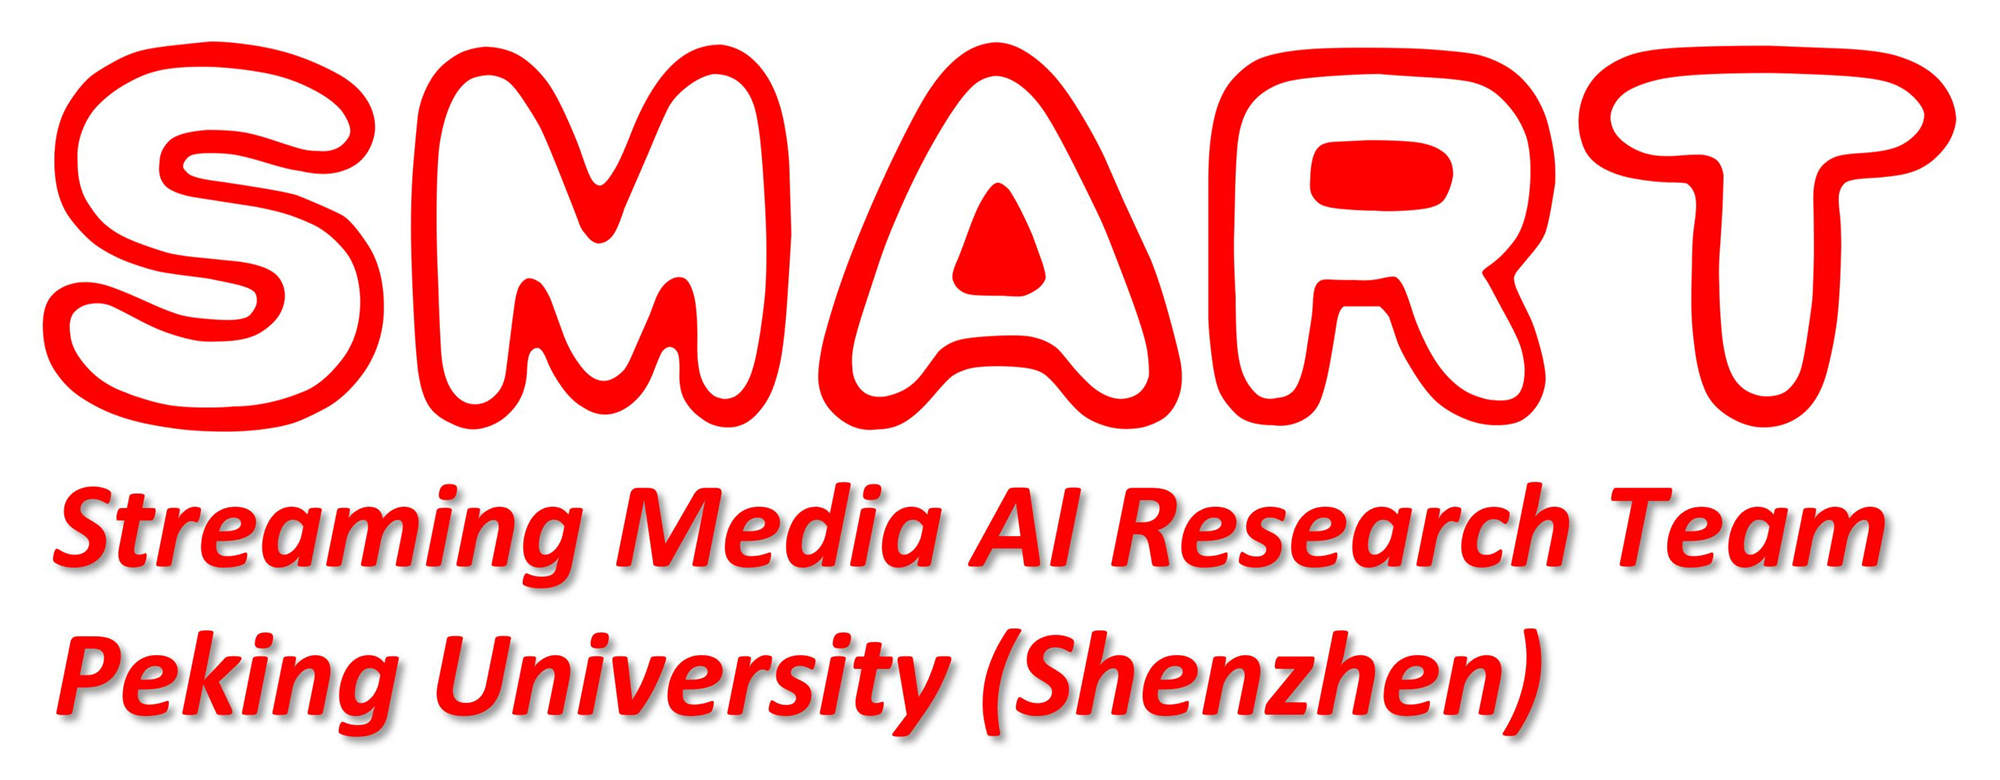
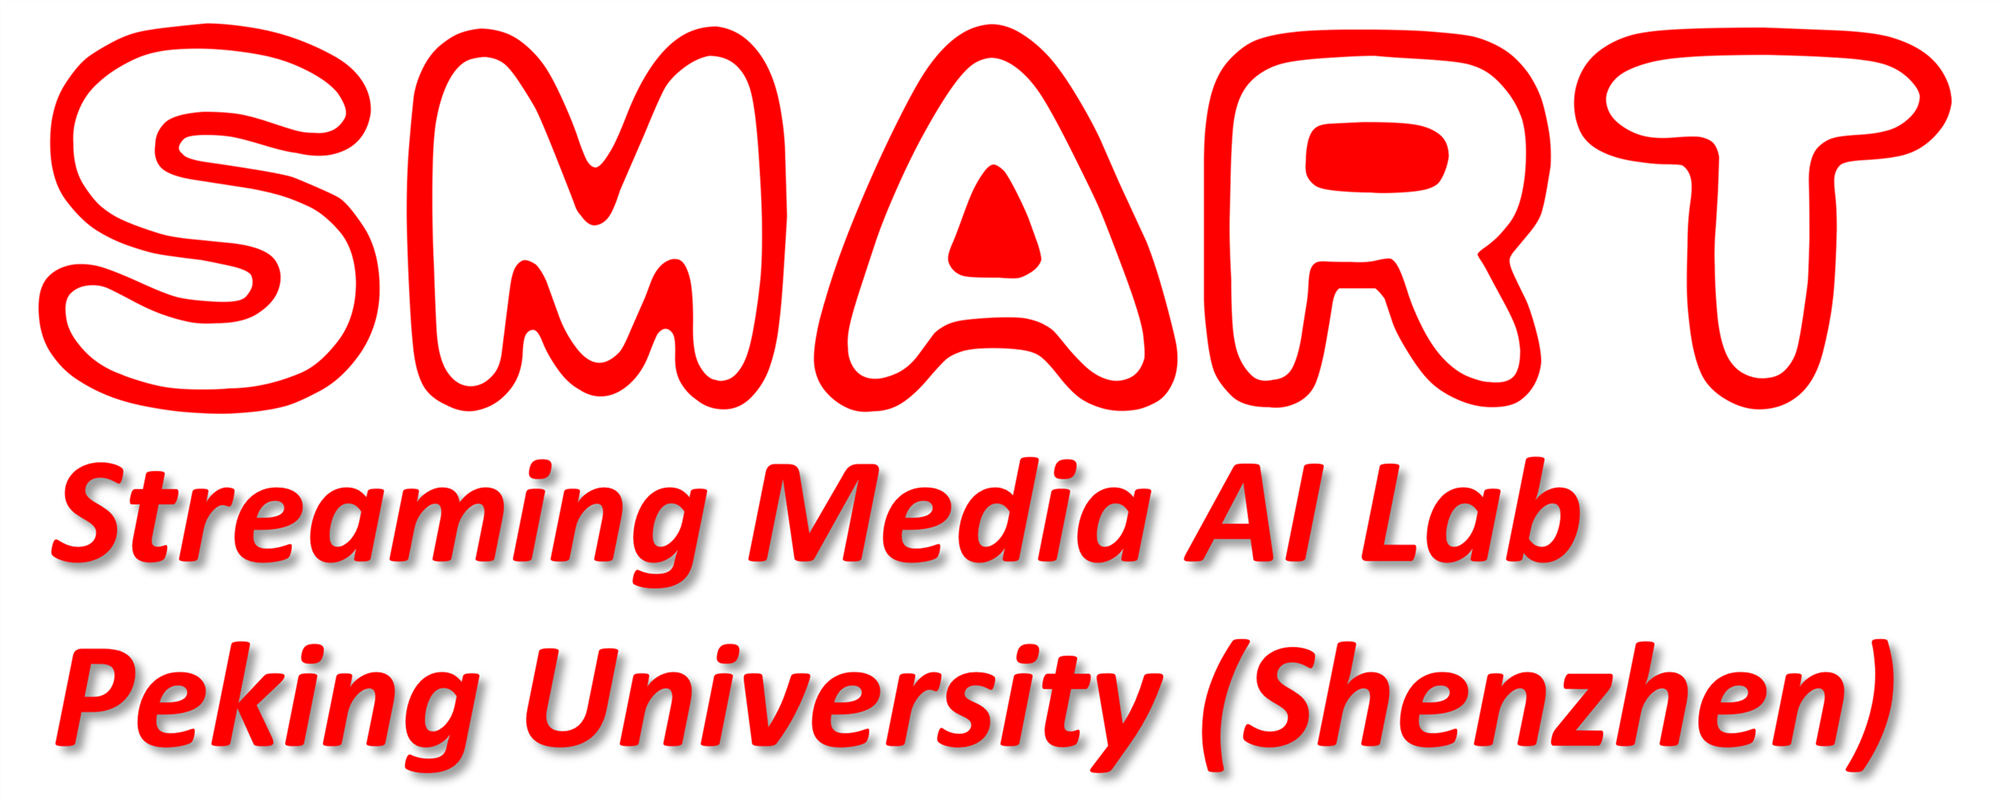
Add files via upload

diff --git a/index.html b/index.html
@@ -252,7 +252,7 @@ Dr. Wei GAO is an Assistant Professor/Researcher/Ph.D. Supervisor with <a href="
 <font style="font-size: 12pt;" face="Arial" color="red">
 
     <ul> 
-	<font style="font-size: 15pt;"><strong><i><u>Streaming Media AI Research Team (SMART) Lab</u></i></strong></font><br><br>
+	<font style="font-size: 15pt;"><strong><i><u>Streaming Media AI (SMART) Lab</u></i></strong></font><br><br>
 	
 <!--<strong style="background:yellow"><i><u>Recruitments</u></i>: </strong>--> <strong>Excellent Postdoctoral Fellows, Postgraduate Students (Ph.D. and Master), and Visiting Students (Postdoc/Ph.D./Master/Undergraduate Students from other institutions) are welcome to join our team to work on exciting Multimedia Computing and Artificial Intelligence related topics. Please feel free to send your CV and the supporting documents (certificates and transcripts) to the email (<a href="mailto: gaowei262@pku.edu.cn" target="_blank">gaowei262@pku.edu.cn</a>). </strong>
 <!--We are also working closely with <a href="http://www.pcl.ac.cn/" target="_blank">Peng Cheng Laboratory</a>, Shenzhen, China.-->
